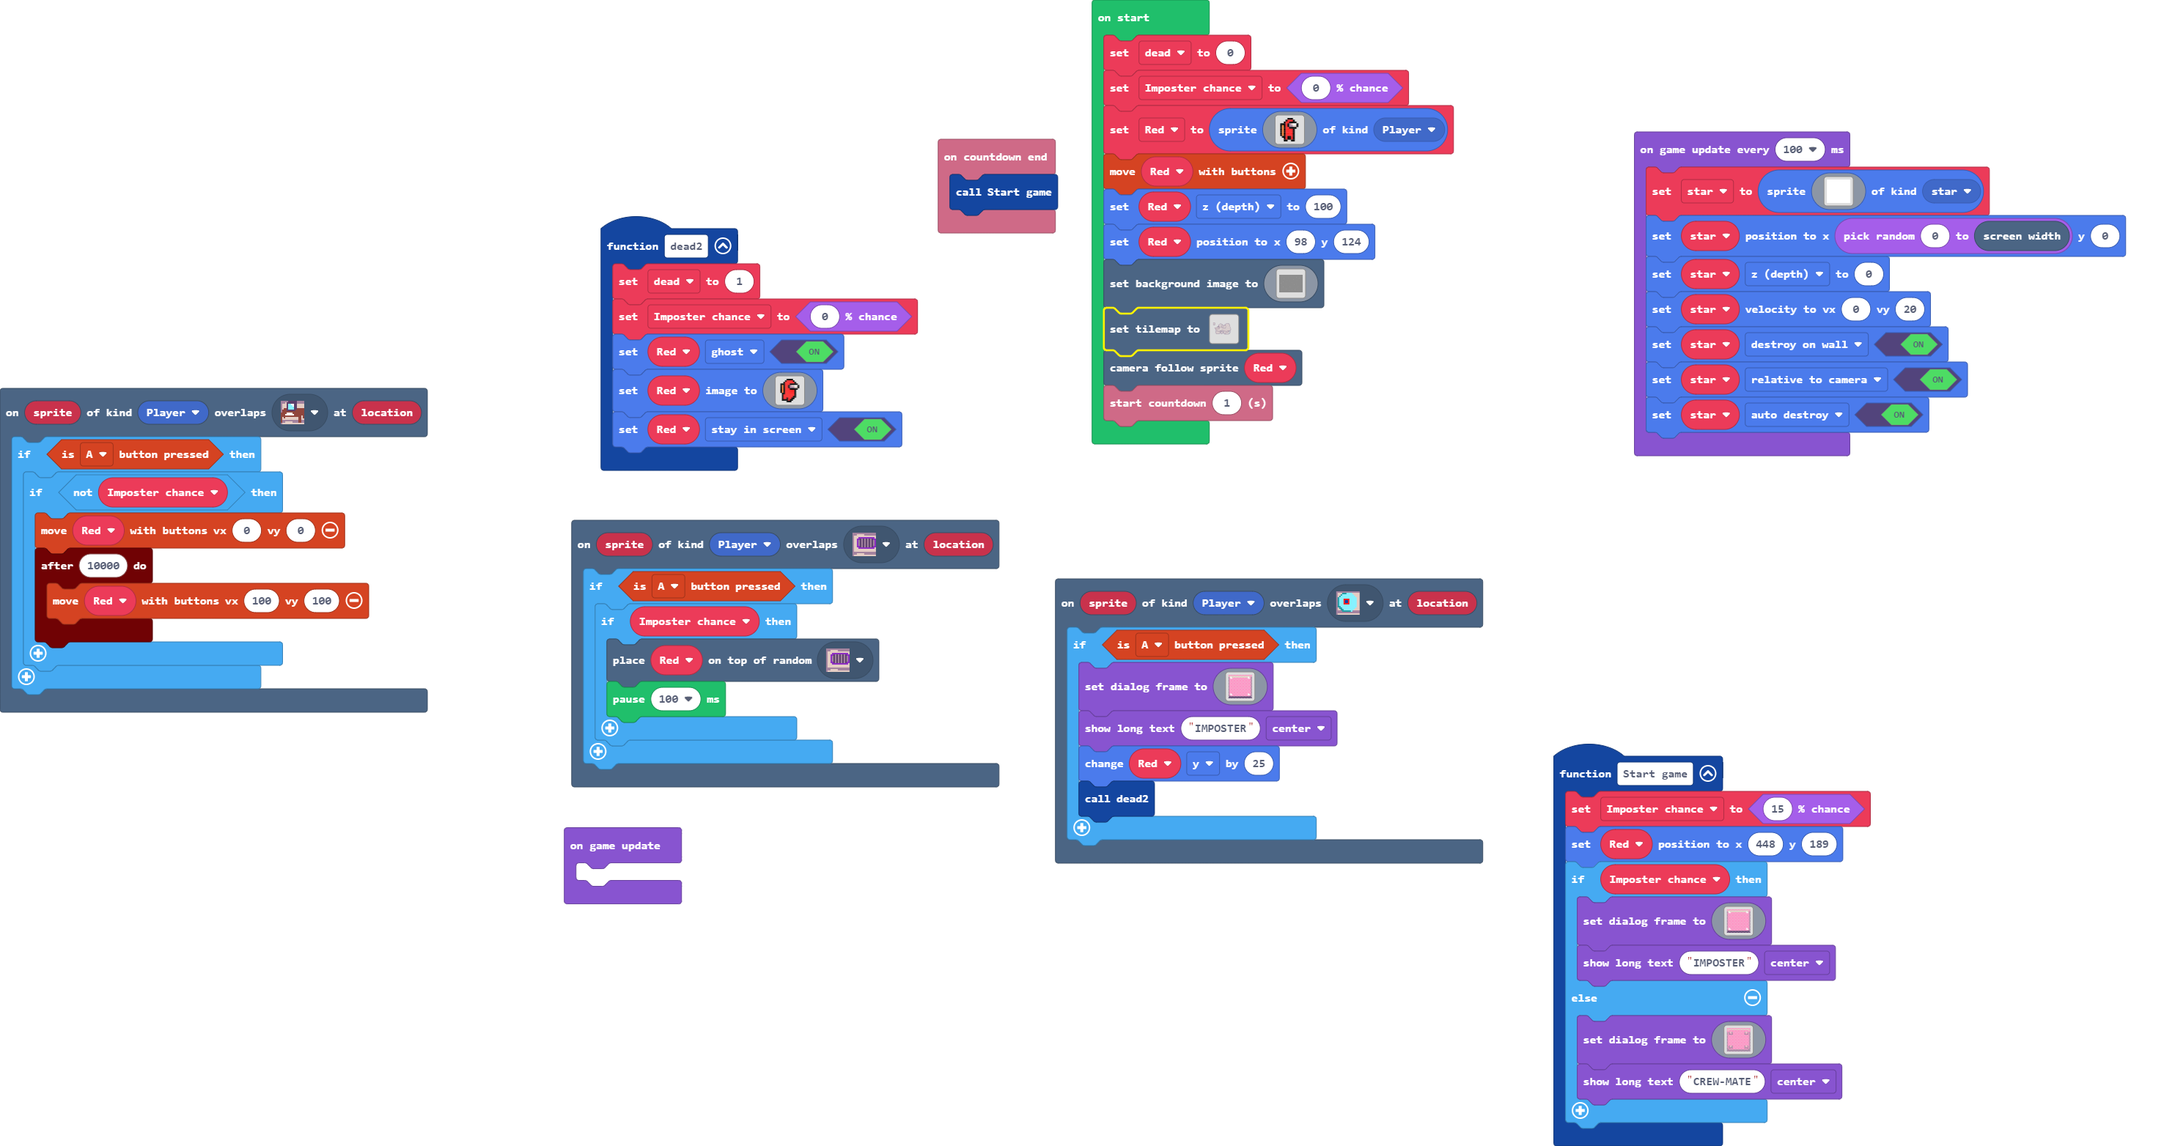
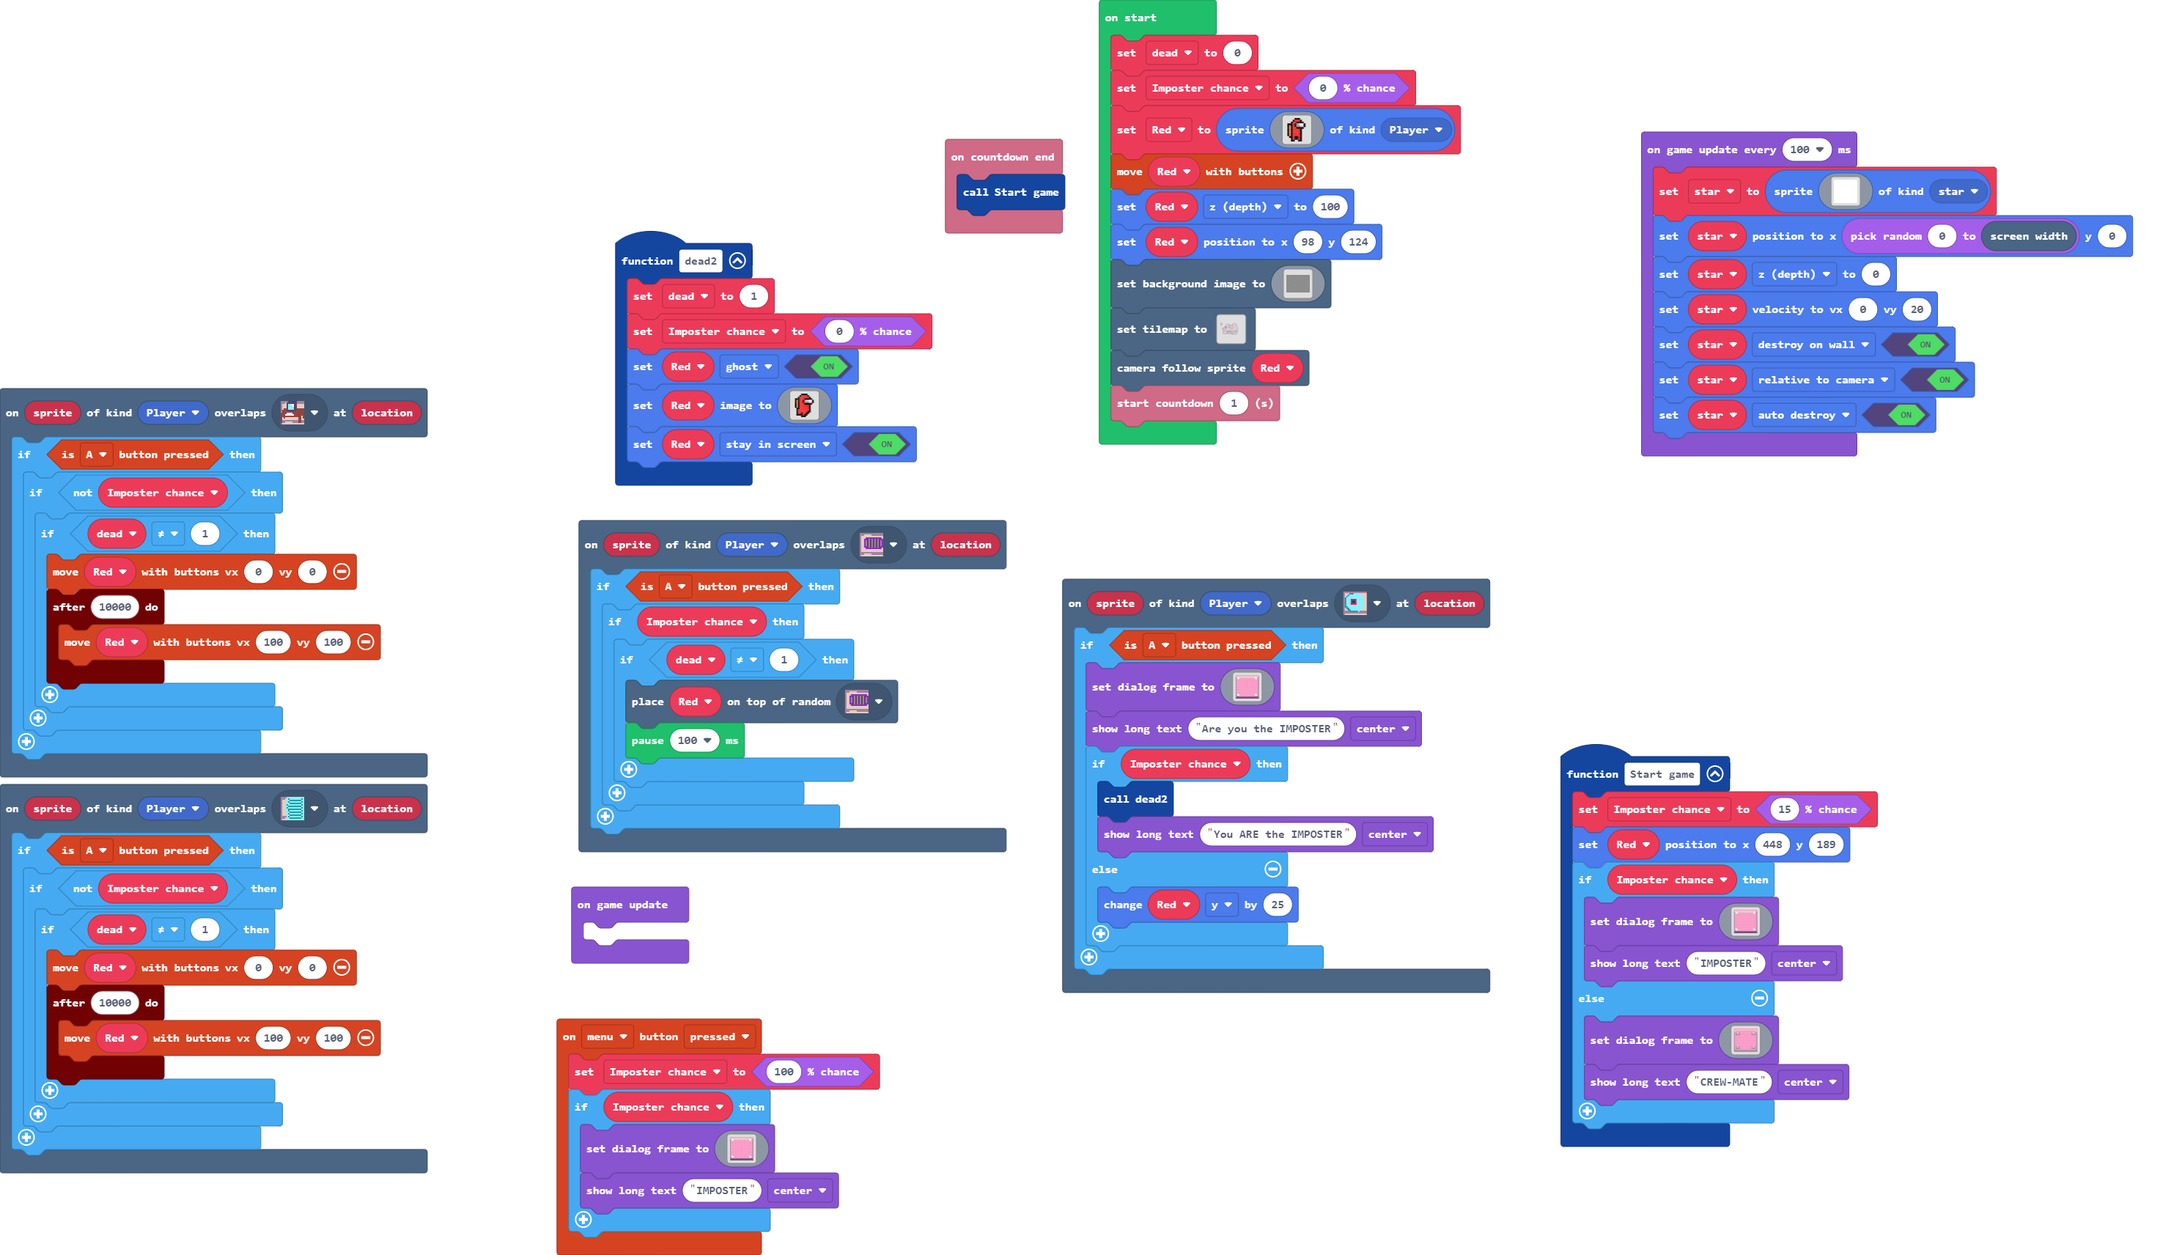
Minor changes, and the game is getting better!

diff --git a/main.ts b/main.ts
@@ -5,18 +5,22 @@ namespace SpriteKind {
 scene.onOverlapTile(SpriteKind.Player, myTiles.tile2, function (sprite, location) {
     if (controller.A.isPressed()) {
         if (!(Imposter_chance)) {
-            controller.moveSprite(Red, 0, 0)
-            timer.after(10000, function () {
-                controller.moveSprite(Red, 100, 100)
-            })
+            if (dead != 1) {
+                controller.moveSprite(Red, 0, 0)
+                timer.after(10000, function () {
+                    controller.moveSprite(Red, 100, 100)
+                })
+            }
         }
     }
 })
 scene.onOverlapTile(SpriteKind.Player, myTiles.tile3, function (sprite, location) {
     if (controller.A.isPressed()) {
         if (Imposter_chance) {
-            tiles.placeOnRandomTile(Red, myTiles.tile3)
-            pause(100)
+            if (dead != 1) {
+                tiles.placeOnRandomTile(Red, myTiles.tile3)
+                pause(100)
+            }
         }
     }
 })
@@ -112,9 +116,57 @@ scene.onOverlapTile(SpriteKind.Player, myTiles.tile9, function (sprite, location
             bccccccccccccccccccccccb
             cccccccccccccccccccccccc
             `)
+        game.showLongText("Are you the IMPOSTER", DialogLayout.Center)
+        if (Imposter_chance) {
+            dead2()
+            game.showLongText("You ARE the IMPOSTER", DialogLayout.Center)
+        } else {
+            Red.y += 25
+        }
+    }
+})
+scene.onOverlapTile(SpriteKind.Player, myTiles.tile11, function (sprite, location) {
+    if (controller.A.isPressed()) {
+        if (!(Imposter_chance)) {
+            if (dead != 1) {
+                controller.moveSprite(Red, 0, 0)
+                timer.after(10000, function () {
+                    controller.moveSprite(Red, 100, 100)
+                })
+            }
+        }
+    }
+})
+controller.menu.onEvent(ControllerButtonEvent.Pressed, function () {
+    Imposter_chance = Math.percentChance(100)
+    if (Imposter_chance) {
+        game.setDialogFrame(img`
+            333333333333333333333333
+            3dddddddddddddddddddddd3
+            bd1ddddddddddddddddd1d3b
+            b3113333333333333333113b
+            b3333333333333333333333b
+            b3333333333333333333333b
+            b3333333333333333333333b
+            b3333333333333333333333b
+            b3333333333333333333333b
+            b3333333333333333333333b
+            b3333333333333333333333b
+            b3333333333333333333333b
+            b3333333333333333333333b
+            b3333333333333333333333b
+            b3333333333333333333333b
+            b3333333333333333333333b
+            b3333333333333333333333b
+            b3333333333333333333333b
+            b3333333333333333333333b
+            b3133333333333333333133b
+            b3113333333333333333113b
+            bb33333333333333333333bb
+            bccccccccccccccccccccccb
+            cccccccccccccccccccccccc
+            `)
         game.showLongText("IMPOSTER", DialogLayout.Center)
-        Red.y += 25
-        dead2()
     }
 })
 function dead2 () {
@@ -286,7 +338,7 @@ scene.setBackgroundImage(img`
     ffffffffffffffffffffffffffffffffffffffffffffffffffffffffffffffffffffffffffffffffffffffffffffffffffffffffffffffffffffffffffffffffffffffffffffffffffffffffffffffff
     ffffffffffffffffffffffffffffffffffffffffffffffffffffffffffffffffffffffffffffffffffffffffffffffffffffffffffffffffffffffffffffffffffffffffffffffffffffffffffffffff
     `)
-tiles.setTilemap(tiles.createTilemap(hex`5000320000000000000000000000000000000000000000000000000000000000000000000000000000000000000000000000000000000000000000000000000000000000000000000000000000000000000000000000000000000000000000000000000000000000000000000000000000000000000000000000000000000000000000000000000000000000000000000000000000000000000000000000000000000000000000000000000000000000000000000000000000000000000000000000000000000000000000000000000000000000000000000000000000000000000000000000000000000000000000000000000000000000030405030000000000000000000000000000000000000000000000000000000000000000000000000000000000000000000000000000000000000000000000000000000000000000000000000000000303010103030000000000000000000000000000000000000000000000000000000000000000000000000000000000000000000000000000000000000000000000000000000000000000000000000000030101010103000000000000000000000000000000000000000000000000000000000000000000000000000000000000000000000000000000000000000000000000000000000000000000000000000003010101010300000000000000000000000000000000000003030000000000000000000000000000000000000303030303030303030300000000000000000000000000000000000000000000000000000301010101030000000000000000000000000000000003030101030300000000000000000000000000000303010101010101010101030000000000000000000000000000000000000000000000000000030101010103000000000000000000000000000000030101010101010303000000000000000000000003030101010101010101010103030000000000000000000000000000000000000000000000000003010101010300000000000000000000000000000301010601010601010103030000000000000000030301010101010101010101010103000000000000000000000000000000000000000000000000000303020203030000000000000000000000000003010101010101010101020301030000000000000303030101010101010101010101010103000000000000000000000000000000000000000000000000000303030300000000000000000000000000030301060101010101060103030101030000000003030103010101010101010101010101010300000000000000000000000000000000000000000000000000000000000000000000000000000000000003020101010101010101010301010101030000030301010301010101010101010101010101030300000000000000000000000000000000000000000000000000000000000000000000000000000000030301010106010106010101030101010103030303010101030101010101010101010101010101030000000000000000000000000000000000000000000000000000000000000000000000000000000003030101010101010101010103010101010301010101010103030101010101010101010101010103000000000000000000000000000000000000000000000000000000000000000000000000000000030303010101010101010101010301010101010101010101010103010101010101010101010101010300000000000000000000000000000000000000000000000000000000000000000000000000000303030303010101010701010103030101010103010101010101010301010101010101010101010101030000000000000000000000000000000000000000000000000000000000000000000000000003030303030303010101010101010301010101010301010101010101030101010101010101010101010101030000000000000000000000000000000000000000000000000000000000000000000000030303030303030303010101010203030101030303030101010101010103010101010101010101010101010103000000000000000000000000000000000000000000000000000000000000000000030308080808080803030303010103030301010103020101010101010101010301010101010101010101010101010300000000000000000000000000000000000000000000000000000003030303030308080101010101010803030101010101010101010301010101010101010103030101010101010101010101010101010300000000000000000000000000000000000000000000000000000301010101010101010101010101010101010101010101010101030301010101010101030301010101010101010101010101010101030000000000000000000000000000000000000000000000000000030308080808080808010101010101030301010101010101010101030303030303030303010101010101010101010101010101010103000000000000000000000000000000000000000000000000000000030301010101010101080808080803010101010001010101010101010101010101010101010101010101010101010101010101010103000000000000000000000000000000000000000000000000000000030808080808080203030303030301010100000001010101010101010101010101010101010101010101010101010101010101010300000000000000000000000000000000000000000000000000000003030303030303030301010101010101000000000001010101010101010101010101010101010101010101010101010101010101030000000000000000000000000000000000000000000000000000000003010101010101010101010101010101000000010101010101010101010101010101010101010101010101010101010101010103000000000000000000000000000000000000000000000000000000000301010101010101010101010101010101000101010101010101010101010101010101010101010101010101010101010101010300000000000000000000000000000000000000000000000000000000030301010101010101010101010101010101010101010101010101010101010101010101010101010101010101010101010103000000000000000000000000000000000000000000000000000000000000030101010101010101010101010101010101010303030303010101010101010101010101010101010101010101010101010300000000000000000000000000000000000000000000000000000000000003020101010103010101010101010101010303030300000303010101010101010101010101010101010101030303030303030000000000000000000000000000000000000000000000000000000000000303030303030301010101010103030303030000030000030003030303030303010101010101030303030303030301090300000000000000000000000000000000000000000000000000000000000000030101010101010101010101030301030303000303030303000003010101010303010101030308080808080303030109030000000000000000000000000000000000000000000000000000000000000303010101010101010101010303010103000303020202030300000301010101010301010103080101010108030301010903000000000000000000000000000000000000000000000000000000000000030101010101010303030303030101010303030301010102030303030101010101030101030308010101080303010101090300000000000000000000000000000000000000000000000000000000000003010101010101010101010101010103030003020101010203000003010101010103010103080808080103030101010109030000000000000000000000000000000000000000000000000000000000000301010101010101010101010101010300030302010101010303000301010101010301010303030303010101010101010903000000000000000000000000000000000000000000000000000000000000030301010101010101010101010102030303020101010101020303030101010101010101010101010101010101010109030300000000000000000000000000000000000000000000000000000000000000030101010101010101010101010300000302010101010103030003010101010101010101010101010101010101090903000000000000000000000000000000000000000000000000000000000000000003020101010101010101010103030000030101010101030300000003010101010301010301010101010101010909030300000000000000000000000000000000000000000000000000000000000000000303010101010101010101030300000003030101030303000000000301010101030101030101010101010101090303000000000000000000000000000000000000000000000000000000000000000000000303030303030303030303000000000003030303000000000000030303030303010103010101010101090303030000000000000000000000000000000000000000000000000000000000000000000000000000000000000000000000000000000000000000000000000000000303030303030303030303030303030000000000000000000000000000000000000000000000000000000000000000000000000000000000000000000000000000000000000000000000000000000000000000000000000000000000000000000000000000000000000000000000000000000000000000000000000000000000000000000000000000000000000000000000000000000000000000000000000000000000000000000000000000000000000000000000000000000000000000000000000000000000000000000000000000000000000000000000000000000000000000000000000000000000000000000000000000000000000000000000000000000000000000000000000000000000000000000000000000000000000000000000000000000000000000000000000000000000000000000000000000000000000000000000000000000000000000000000000000000000000000000000000000000000000000000000000000000000000000000000000000000000000000000000000000000000000000000000000000000000000000000000000000000000000000000000000000000000000000000000000000000000000000000000000000000000000000000000000000000000000000000000000000000000000000000000000000000000000000000000000000000000000000000000000000000000000000000000000000000000000000000000000000000000000000000000000000000000000000000000000000000000000000000000000000000000000000000000000000000000000000000000000000000000000000`, img`
[1 lines of base64/hex data omitted]
     ................................................................................
     ................................................................................
     ................................................................................
@@ -337,7 +389,7 @@ tiles.setTilemap(tiles.createTilemap(hex`500032000000000000000000000000000000000
     ................................................................................
     ................................................................................
     ................................................................................
-    `, [myTiles.transparency16,myTiles.tile1,myTiles.tile3,myTiles.tile4,myTiles.tile5,myTiles.tile6,myTiles.tile8,myTiles.tile9,myTiles.tile2,myTiles.tile11], TileScale.Sixteen))
+    `, [myTiles.transparency16,myTiles.tile1,myTiles.tile3,myTiles.tile4,myTiles.tile5,myTiles.tile6,myTiles.tile8,myTiles.tile9,myTiles.tile2,myTiles.tile11,myTiles.tile12,myTiles.tile13,myTiles.tile14,myTiles.tile15,myTiles.tile16,myTiles.tile17,myTiles.tile18,myTiles.tile19], TileScale.Sixteen))
 scene.cameraFollowSprite(Red)
 info.startCountdown(1)
 game.onUpdate(function () {

diff --git a/tilemap.g.ts b/tilemap.g.ts
@@ -20,6 +20,22 @@ namespace myTiles {
     export const tile2 = image.ofBuffer(hex``);
     //% fixedInstance jres blockIdentity=images._tile
     export const tile11 = image.ofBuffer(hex``);
+    //% fixedInstance jres blockIdentity=images._tile
+    export const tile12 = image.ofBuffer(hex``);
+    //% fixedInstance jres blockIdentity=images._tile
+    export const tile13 = image.ofBuffer(hex``);
+    //% fixedInstance jres blockIdentity=images._tile
+    export const tile14 = image.ofBuffer(hex``);
+    //% fixedInstance jres blockIdentity=images._tile
+    export const tile15 = image.ofBuffer(hex``);
+    //% fixedInstance jres blockIdentity=images._tile
+    export const tile16 = image.ofBuffer(hex``);
+    //% fixedInstance jres blockIdentity=images._tile
+    export const tile17 = image.ofBuffer(hex``);
+    //% fixedInstance jres blockIdentity=images._tile
+    export const tile18 = image.ofBuffer(hex``);
+    //% fixedInstance jres blockIdentity=images._tile
+    export const tile19 = image.ofBuffer(hex``);
 
     helpers.registerTilemapFactory(function(name: string) {
         switch(helpers.stringTrim(name)) {
@@ -75,6 +91,58 @@ namespace myTiles {
 ................................................................................
 ................................................................................
 `, [myTiles.transparency16,myTiles.tile1,myTiles.tile3,myTiles.tile4,myTiles.tile5,myTiles.tile6,myTiles.tile8,myTiles.tile9,myTiles.tile2], TileScale.Sixteen)
[1 lines of base64/hex data omitted]
+................................................................................
+................................................................................
+................................................................................
+....2222........................................................................
+...22..22.......................................................................
+...2....2.......................................................................
+...2....2..................22..................2222222222.......................
+...2....2................22..22..............22.........2.......................
+...2....2...............2......22...........22..........22......................
+...2....2..............2..2..2...22........22............2......................
+...22..22.............2..........2.2......222.............2.....................
+....2222.............22.2.....2.22..2....22.2.............2.....................
+.....................2..........2....2..22..2.............22....................
+....................22...2..2...2....2222...2..............2....................
+....................22..........2....2......22.............2....................
+...................222..........2............2.............2....................
+..................22222........22....2.......2.............2....................
+.................2222222.......2.....2.......2..............2...................
+................222222222.....22..2222.......2..............2...................
+..............22......2222..222...2..........2..............2...................
+........222222.........22.........2.........22...............2..................
+........2.........................22.......22................2..................
+........22.............22..........222222222.................2..................
+.........22............2....2.................................2.................
+..........2.......222222...222................................2.................
+..........222222222.......22.22...............................2.................
+...........2...............222................................2.................
+...........2................2.................................2.................
+...........22................................................2..................
+............2..................22222.........................2..................
+............2.....2..........2222..22..................2222222..................
+............2222222......22222..2..2.2222222......22222222..2...................
+............2...........22.222.22222..2....22...22.....222..2...................
+...........22..........22..2.22...22..2.....2...2......22...2...................
+...........2......222222...2222....2222.....2..22.....22....2...................
+...........2..............22.2.....2..2.....2..2.....22.....2...................
+...........2..............2.22.....22.2.....2..22222........2...................
+...........22.............222.......222....................22...................
+............2............2..2......22.2....................2....................
+............2...........22..2.....22...2....2..2..........22....................
+............22.........22...22..222....2....2..2.........22.....................
+.............22222222222.....2222......222222..2.......222......................
+.........................................222222222222222........................
+................................................................................
+................................................................................
+................................................................................
+................................................................................
+................................................................................
+................................................................................
+................................................................................
+`, [myTiles.transparency16,myTiles.tile1,myTiles.tile3,myTiles.tile4,myTiles.tile5,myTiles.tile6,myTiles.tile8,myTiles.tile9,myTiles.tile2,myTiles.tile11,myTiles.tile12,myTiles.tile13,myTiles.tile14,myTiles.tile15,myTiles.tile16,myTiles.tile17,myTiles.tile18,myTiles.tile19], TileScale.Sixteen)
         }
         return null;
     })
